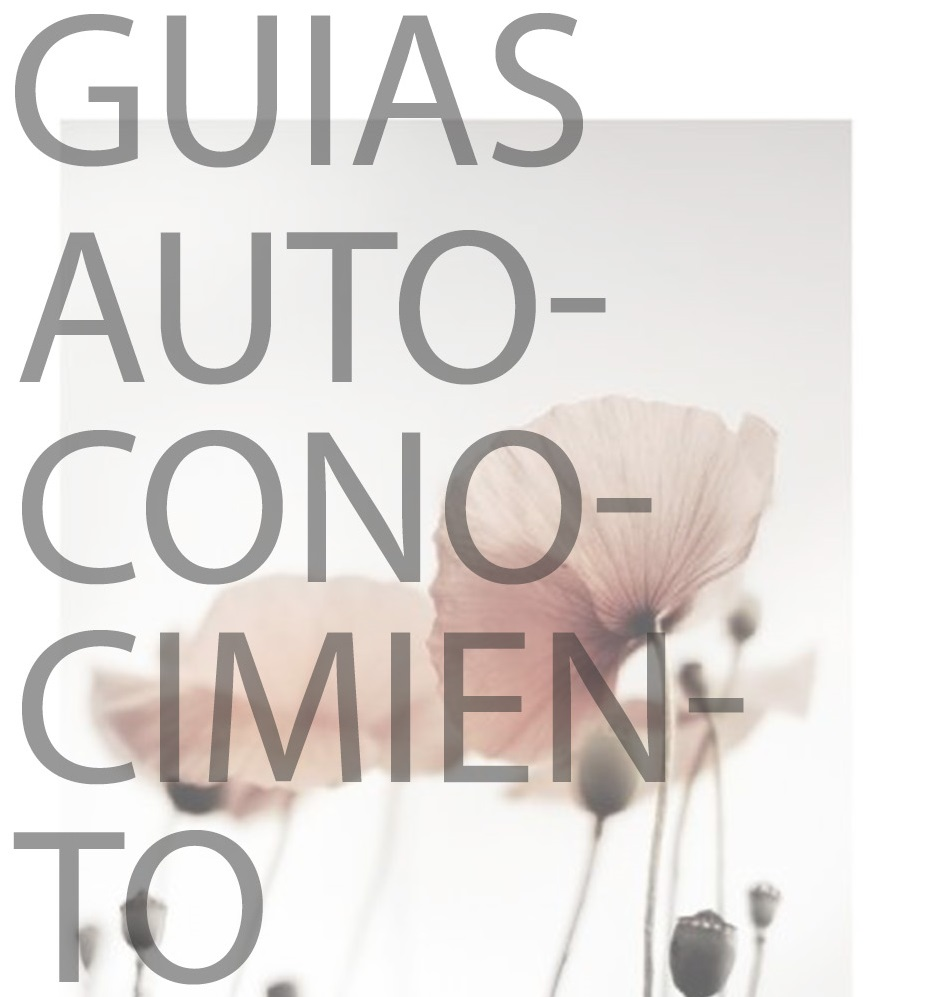
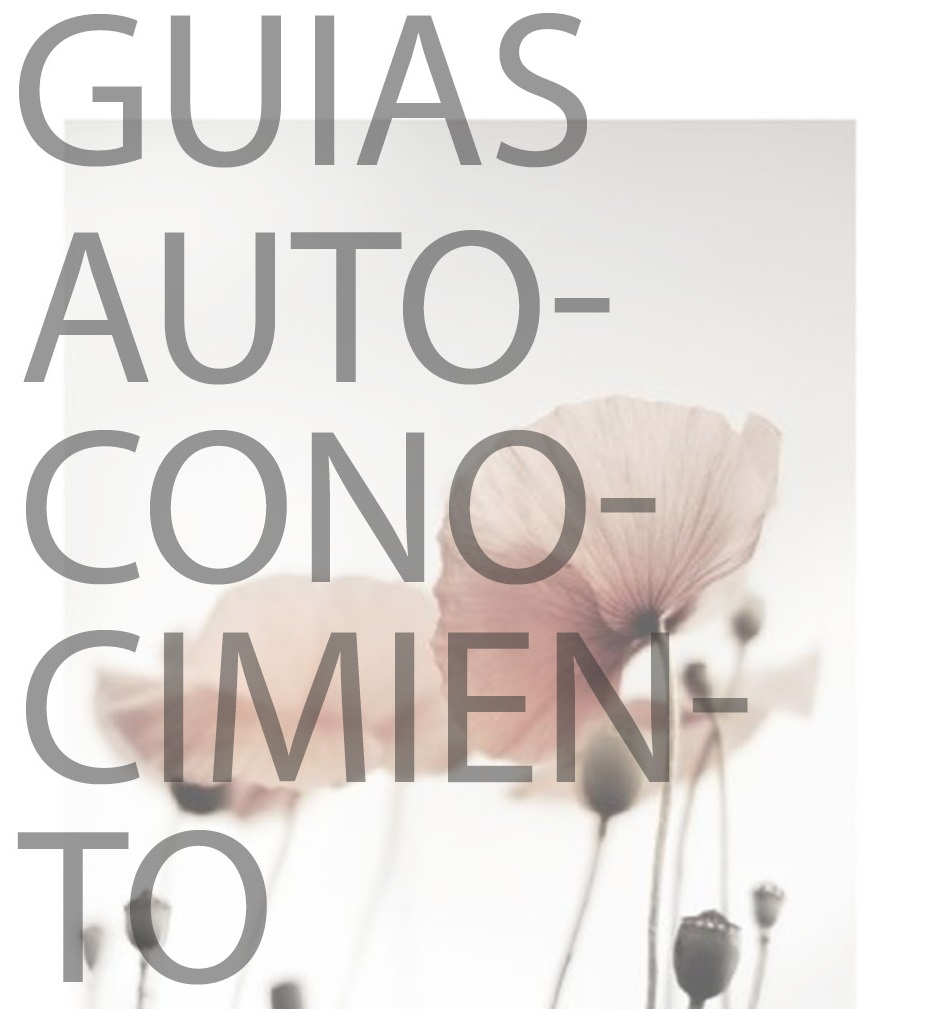
algunas mejoras en about

diff --git a/about.html b/about.html
@@ -39,8 +39,8 @@
   			</div>
 		</nav>	
         <section>
-			<div id="about" class="d-flex flex-column flex-md-row justify-content-around py-5 bgNude">
-				<div class="col-sm-12 col-md-6 text-justify">
+			<div id="about" class="d-flex flex-column flex-md-row justify-content-around py-3 bgNude">
+				<div class="col-sm-12 col-md-7 text-justify">
 					<p class="title typeBold">HOLA, SOY MARIA DEL MAR</p>
 					<p class="typeLight"><span class="typeBold">Te doy la Bienvenida a mi Mundo Slow & Autoconocimiento</span>.
 					Por medio de <span class="typeBold">LamademoiselleDelaMar</span> guío a las personas a impulsar su imagen desde la propia <span class="typeBold">esencia del SER</span>, para lograr los objetivos propuestos, aquellos que cada persona quiere transmitir a través de su personalidad y que, a la hora de vestir en una ocasión especial, o en su rutina diaria, simplifique la tarea de seleccionar los looks, y sean exactamente los que cada uno desea ver de  si mismo. 
@@ -48,7 +48,7 @@
 					<p>Desde mi rol como Diseñadora de Indumentaria, desde la <span class="typeBold">filosofía de la sostenibilidad</span>, colaboro para que, como consumidores, tomemos decisiones responsables sobre cómo nos vinculamos con la Moda, motivando una manera sana, conscientes y siendo empáticos con lo que la naturaleza nos presta.Nací en Monte Caseros, Corrientes. Crecí en Río Cuarto, Córdoba. Actualmente vivo en la encantadora, multifacética y seductora Buenos Aires.</p>
 					<p>Me gradué como <span class="typeBold">Diseñadora de Indumentaria y Textil en la Universidad de Buenos Aires</span>, estudié en <span class="typeBold">Central Saint Martins</span> school en londres, me especialicé como <span class="typeBold">Asesora de Imagen & personal shopper (AICI)</span> y me especialicé en <span class="typeBold"> Moda Sostenible</span>.</p>
 				</div>
-				<div class="col-sm-12 col-md-5 foto rounded">
+				<div class="col-sm-12 col-md-4 h-75 foto rounded">
 
 				</div>	
 			</div>

diff --git a/css/estilos.css b/css/estilos.css
@@ -121,7 +121,7 @@ img {
 #about .foto {
   background-image: url(../media/perfil_collar.jpg);
   background-size: cover;
-  background-position: center;
+  background-position: top;
   min-height: 500px;
 }
 

diff --git a/scss/estilos.scss b/scss/estilos.scss
@@ -109,7 +109,7 @@ img{
 	.foto{
 		background-image: url(../media/perfil_collar.jpg);
 		background-size: cover;
-		background-position: center;
+		background-position: top;
 		min-height: 500px;
 	}
 }
